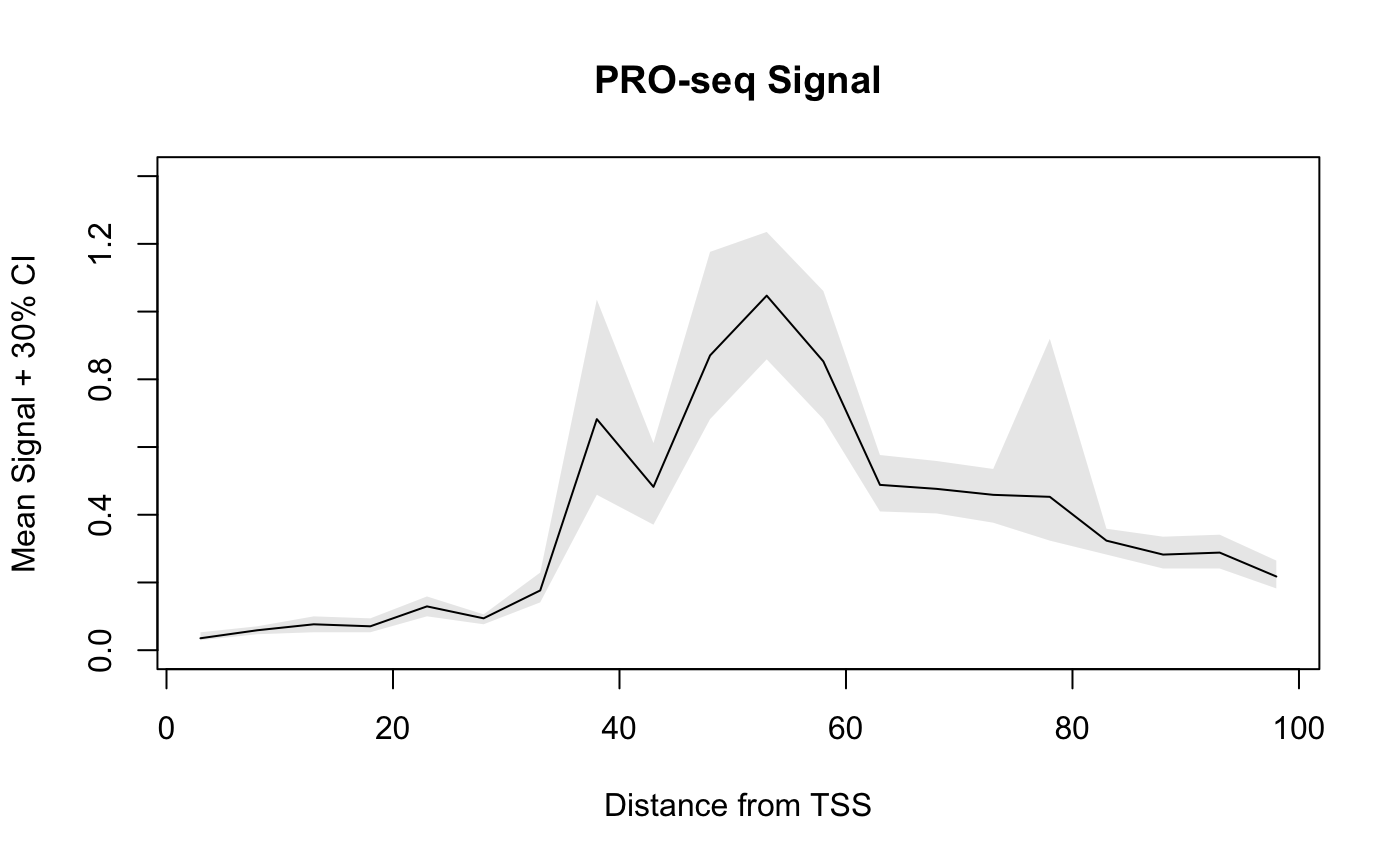
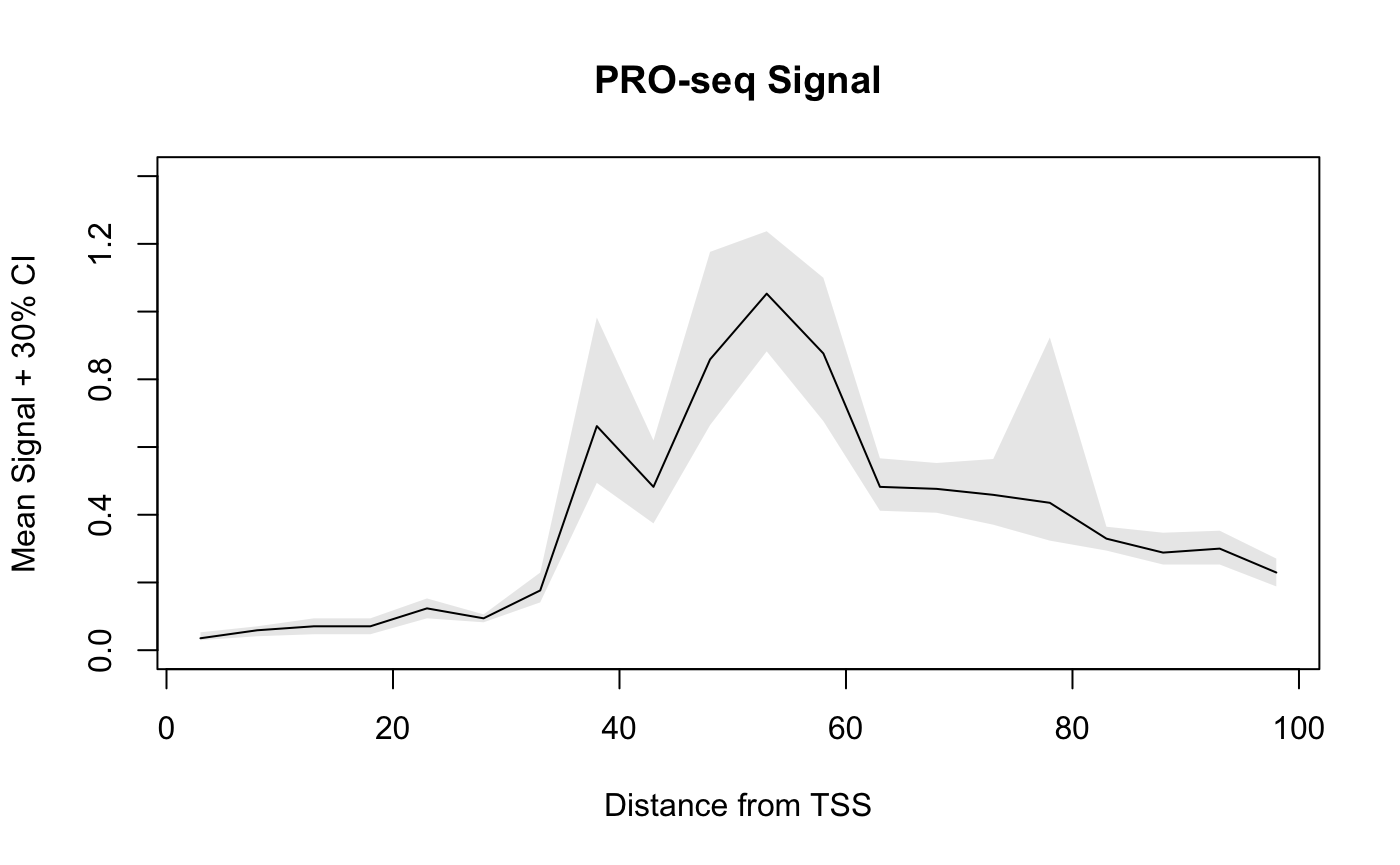
v0.99.20

diff --git a/articles/BRGenomicsOverview.html b/articles/BRGenomicsOverview.html
@@ -31,7 +31,7 @@
       </button>
       <span class="navbar-brand">
         <a class="navbar-link" href="../index.html">BRGenomics</a>
-        <span class="version label label-default" data-toggle="tooltip" data-placement="bottom" title="Released version">0.99.19</span>
+        <span class="version label label-default" data-toggle="tooltip" data-placement="bottom" title="Released version">0.99.20</span>
       </span>
     </div>
 
@@ -1073,11 +1073,11 @@
 <a class="sourceLine" id="cb132-3" data-line-number="3"><span class="kw"><a href="https://rdrr.io/r/utils/head.html">head</a></span>(bootmeans.df)</a></code></pre></div>
 <pre><code>##    x       mean      lower      upper sample.name
 ## 1  3 0.03529412 0.02941176 0.05294118      PROseq
-## 2  8 0.05882353 0.04705882 0.07058824      PROseq
-## 3 13 0.07647059 0.05294118 0.10000000      PROseq
-## 4 18 0.07058824 0.05294118 0.09411765      PROseq
-## 5 23 0.12941176 0.10000000 0.15882353      PROseq
-## 6 28 0.09411765 0.07647059 0.10588235      PROseq</code></pre>
+## 2  8 0.05882353 0.04117647 0.07058824      PROseq
+## 3 13 0.07058824 0.04705882 0.09411765      PROseq
+## 4 18 0.07058824 0.04705882 0.09411765      PROseq
+## 5 23 0.12352941 0.09411765 0.15294118      PROseq
+## 6 28 0.09411765 0.08235294 0.10588235      PROseq</code></pre>
 <p>A dataframe is returned for plotting, and notice how the x-values have been automatically adjusted to be the center of the bins.</p>
 <p>Below, we show how to plot the confidence bands using base R plotting, as well as <code>ggplot2</code>.</p>
 <div class="sourceCode" id="cb134"><pre class="sourceCode r"><code class="sourceCode r"><a class="sourceLine" id="cb134-1" data-line-number="1"><span class="kw"><a href="https://rdrr.io/r/graphics/plot.html">plot</a></span>(mean <span class="op">~</span><span class="st"> </span>x, <span class="dt">data =</span> bootmeans.df, <span class="dt">type =</span> <span class="st">"l"</span>, </a>
@@ -1113,8 +1113,8 @@
 ## 1  3 0.01176471 0.005882353 0.01764706         ps1
 ## 2  8 0.01764706 0.011764706 0.02352941         ps1
 ## 3 13 0.01764706 0.011764706 0.02352941         ps1
-## 4 18 0.04117647 0.029411765 0.04705882         ps1
-## 5 23 0.02941176 0.017647059 0.04705882         ps1
+## 4 18 0.04117647 0.023529412 0.04705882         ps1
+## 5 23 0.02941176 0.017647059 0.04117647         ps1
 ## 6 28 0.02941176 0.023529412 0.04117647         ps1</code></pre>
 <div class="sourceCode" id="cb138"><pre class="sourceCode r"><code class="sourceCode r"><a class="sourceLine" id="cb138-1" data-line-number="1"><span class="kw"><a href="https://rdrr.io/r/base/library.html">require</a></span>(ggplot2)</a>
 <a class="sourceLine" id="cb138-2" data-line-number="2"><span class="kw"><a href="https://ggplot2.tidyverse.org/reference/ggplot.html">ggplot</a></span>(bm_list.df, <span class="kw"><a href="https://ggplot2.tidyverse.org/reference/aes.html">aes</a></span>(x, mean, <span class="dt">color =</span> sample.name)) <span class="op">+</span><span class="st"> </span></a>
@@ -1697,7 +1697,7 @@
 ##  collate  en_US.UTF-8                                       
 ##  ctype    en_US.UTF-8                                       
 ##  tz       America/New_York                                  
-##  date     2020-03-07                                        
+##  date     2020-03-08                                        
 ## 
 ## ─ Packages ───────────────────────────────────────────────────────────────────
 ##  package              * version  date       lib
@@ -1716,7 +1716,7 @@
 ##  bitops                 1.0-6    2013-08-17 [3]
 ##  blob                   1.2.1    2020-01-20 [3]
 ##  bookdown               0.18     2020-03-05 [3]
-##  BRGenomics           * 0.99.19  2020-03-08 [1]
+##  BRGenomics           * 0.99.20  2020-03-08 [1]
 ##  callr                  3.4.2    2020-02-12 [3]
 ##  cli                    2.0.2    2020-02-28 [3]
 ##  colorspace             1.4-1    2019-03-18 [3]
@@ -1891,8 +1891,8 @@
 ##  CRAN (R 4.0.0)                  
 ##  Bioconductor                    
 ## 
-## [1] /private/var/folders/zt/m504_3g569g6gqzjbqg34qn40000gn/T/RtmpKrt2fm/temp_libpath70964de73f55
-## [2] /private/var/folders/zt/m504_3g569g6gqzjbqg34qn40000gn/T/RtmpKrt2fm/temp_libpath70962bb93f56
+## [1] /private/var/folders/zt/m504_3g569g6gqzjbqg34qn40000gn/T/RtmpPNFECm/temp_libpath7aed6406691
+## [2] /private/var/folders/zt/m504_3g569g6gqzjbqg34qn40000gn/T/RtmpPNFECm/temp_libpath7aed7db3b738
 ## [3] /Library/Frameworks/R.framework/Versions/4.0/Resources/library</code></pre>
 <!-- SCRAP -->
 <!-- The `import_bam` function provides several options for processing aligned reads, and in conjunction with functions from the *[rtracklayer](https://bioconductor.org/packages/3.11/rtracklayer)* package, we can easily write a post-alignment pipeline for generating bigWig files for viewing in a genome browser. -->

diff --git a/news/index.html b/news/index.html
@@ -67,7 +67,7 @@
       </button>
       <span class="navbar-brand">
         <a class="navbar-link" href="../index.html">BRGenomics</a>
-        <span class="version label label-default" data-toggle="tooltip" data-placement="bottom" title="Released version">0.99.19</span>
+        <span class="version label label-default" data-toggle="tooltip" data-placement="bottom" title="Released version">0.99.20</span>
       </span>
     </div>
 
@@ -117,9 +117,9 @@
       
     </div>
 
-    <div id="brgenomics-0-99-19" class="section level2">
+    <div id="brgenomics-0-99-20" class="section level2">
 <h2 class="hasAnchor">
-<a href="#brgenomics-0-99-19" class="anchor"></a>BRGenomics 0.99.19</h2>
+<a href="#brgenomics-0-99-20" class="anchor"></a>BRGenomics 0.99.20</h2>
 <ul>
 <li>Added support for non-basepair-resolution GRanges throughout, via the <code>expand_ranges</code> argument
 <ul>
@@ -369,7 +369,7 @@
     <div id="tocnav">
       <h2>Contents</h2>
       <ul class="nav nav-pills nav-stacked">
-        <li><a href="#brgenomics-0-99-19">0.99.19</a></li>
+        <li><a href="#brgenomics-0-99-20">0.99.20</a></li>
         <li><a href="#brgenomics-0-99-15">0.99.15</a></li>
         <li><a href="#brgenomics-0-99-10">0.99.10</a></li>
         <li><a href="#brgenomics-0-99-0-bioconductor-submission">0.99.0</a></li>

diff --git a/reference/binNdimensions.html b/reference/binNdimensions.html
@@ -70,7 +70,7 @@ summarize the datapoints that fall into any of these n-dimensional bins." />
       </button>
       <span class="navbar-brand">
         <a class="navbar-link" href="../index.html">BRGenomics</a>
-        <span class="version label label-default" data-toggle="tooltip" data-placement="bottom" title="Released version">0.99.19</span>
+        <span class="version label label-default" data-toggle="tooltip" data-placement="bottom" title="Released version">0.99.20</span>
       </span>
     </div>
 

diff --git a/reference/import_bam.html b/reference/import_bam.html
@@ -70,7 +70,7 @@ processing options. It is highly recommend to index the BAM file first." />
       </button>
       <span class="navbar-brand">
         <a class="navbar-link" href="../index.html">BRGenomics</a>
-        <span class="version label label-default" data-toggle="tooltip" data-placement="bottom" title="Released version">0.99.19</span>
+        <span class="version label label-default" data-toggle="tooltip" data-placement="bottom" title="Released version">0.99.20</span>
       </span>
     </div>
 

diff --git a/reference/txs_dm6_chr4.html b/reference/txs_dm6_chr4.html
@@ -73,7 +73,7 @@ the TxDb package using GenomicFeatures version 1.35.11 on 2019-12-19." />
       </button>
       <span class="navbar-brand">
         <a class="navbar-link" href="../index.html">BRGenomics</a>
-        <span class="version label label-default" data-toggle="tooltip" data-placement="bottom" title="Released version">0.99.19</span>
+        <span class="version label label-default" data-toggle="tooltip" data-placement="bottom" title="Released version">0.99.20</span>
       </span>
     </div>
 

diff --git a/reference/getCountsByRegions.html b/reference/getCountsByRegions.html
@@ -73,7 +73,7 @@ overlapping each region, while expand_regions = TRUE will calculate
       </button>
       <span class="navbar-brand">
         <a class="navbar-link" href="../index.html">BRGenomics</a>
-        <span class="version label label-default" data-toggle="tooltip" data-placement="bottom" title="Released version">0.99.19</span>
+        <span class="version label label-default" data-toggle="tooltip" data-placement="bottom" title="Released version">0.99.20</span>
       </span>
     </div>
 

diff --git a/reference/BRGenomics-package.html b/reference/BRGenomics-package.html
@@ -74,7 +74,7 @@ For interactive documentation with code examples, see the online
       </button>
       <span class="navbar-brand">
         <a class="navbar-link" href="../index.html">BRGenomics</a>
-        <span class="version label label-default" data-toggle="tooltip" data-placement="bottom" title="Released version">0.99.19</span>
+        <span class="version label label-default" data-toggle="tooltip" data-placement="bottom" title="Released version">0.99.20</span>
       </span>
     </div>
 

diff --git a/reference/genebodies.html b/reference/genebodies.html
@@ -70,7 +70,7 @@ start and end sites of regions of interest (usually genes)." />
       </button>
       <span class="navbar-brand">
         <a class="navbar-link" href="../index.html">BRGenomics</a>
-        <span class="version label label-default" data-toggle="tooltip" data-placement="bottom" title="Released version">0.99.19</span>
+        <span class="version label label-default" data-toggle="tooltip" data-placement="bottom" title="Released version">0.99.20</span>
       </span>
     </div>
 

diff --git a/reference/getStrandedCoverage.html b/reference/getStrandedCoverage.html
@@ -70,7 +70,7 @@ Function also works for non-strand-specific data." />
       </button>
       <span class="navbar-brand">
         <a class="navbar-link" href="../index.html">BRGenomics</a>
-        <span class="version label label-default" data-toggle="tooltip" data-placement="bottom" title="Released version">0.99.19</span>
+        <span class="version label label-default" data-toggle="tooltip" data-placement="bottom" title="Released version">0.99.20</span>
       </span>
     </div>
 

diff --git a/reference/getDESeqResults.html b/reference/getDESeqResults.html
@@ -75,7 +75,7 @@ being compared, and not for all samples present." />
       </button>
       <span class="navbar-brand">
         <a class="navbar-link" href="../index.html">BRGenomics</a>
-        <span class="version label label-default" data-toggle="tooltip" data-placement="bottom" title="Released version">0.99.19</span>
+        <span class="version label label-default" data-toggle="tooltip" data-placement="bottom" title="Released version">0.99.20</span>
       </span>
     </div>
 

diff --git a/reference/bootstrap-signal-by-position.html b/reference/bootstrap-signal-by-position.html
@@ -73,7 +73,7 @@ base-pair resolution, or over larger bins." />
       </button>
       <span class="navbar-brand">
         <a class="navbar-link" href="../index.html">BRGenomics</a>
-        <span class="version label label-default" data-toggle="tooltip" data-placement="bottom" title="Released version">0.99.19</span>
+        <span class="version label label-default" data-toggle="tooltip" data-placement="bottom" title="Released version">0.99.20</span>
       </span>
     </div>
 

diff --git a/reference/makeGRangesBRG.html b/reference/makeGRangesBRG.html
@@ -73,7 +73,7 @@ is a basepair resolution GRanges object." />
       </button>
       <span class="navbar-brand">
         <a class="navbar-link" href="../index.html">BRGenomics</a>
-        <span class="version label label-default" data-toggle="tooltip" data-placement="bottom" title="Released version">0.99.19</span>
+        <span class="version label label-default" data-toggle="tooltip" data-placement="bottom" title="Released version">0.99.20</span>
       </span>
     </div>
 
